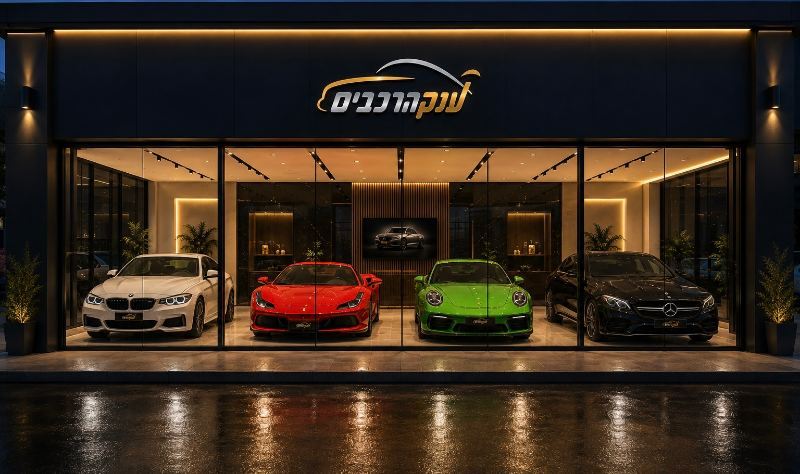
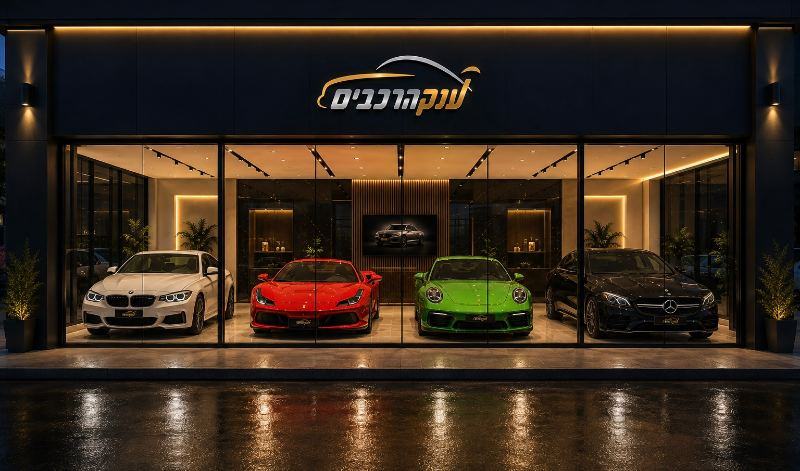
כותרת קצרה בטלפון, הסרת כפתור הוויז ותיקון פס בתצלום
הכותרת בטלפון
הלוגו ירד מהסרגל העליון וכפתור התפריט תפס את מקומו. הלוגו
חוזר ממילא בשלט שבתצלום ובתחתית העמוד, ובמסך צר הוא רק דחק
את הכפתור אל מחוץ למסך. הסמלים חזרו לגודלם המלא.
במחשב הכותרת לא השתנתה.

כפתור הוויז
הוסר. במחשב שורת הכתובת שבכותרת ממילא מקושרת לוויז.

הפס הכחול
בקצה העליון של התצלום היו ארבע שורות פיקסלים של שמיים
בהירים, ובמסך צר הן נראו כפס כחול דק מעל התמונה. הגרסאות
נוצרו מחדש עם קיצוץ של שש שורות מהקצה.

נבדק: שנים עשר עמודים בשני הגדלים — בטלפון כפתור תפריט
בלי לוגו, במחשב לוגו בלי כפתור, ואין זכר לכפתור הוויז.

Claude-Session: https://claude.ai/code/session_016iuMWu4YbWdXw89cY1KnoH

diff --git a/web/app/social-links.tsx b/web/app/social-links.tsx
@@ -1,19 +1,10 @@
-import { BUSINESS, SOCIAL } from "./site-config";
+import { SOCIAL } from "./site-config";
 
 /**
- * הקישורים העגולים בראש האתר: פייסבוק, אינסטגרם, טיקטוק וניווט.
+ * הקישורים העגולים בראש האתר: פייסבוק, אינסטגרם וטיקטוק.
  * הסמלים מוטמעים כ-SVG ולא כתמונות, כדי שיישארו חדים בכל גודל
  * ולא יוסיפו בקשות רשת. הכתובות יושבות ב-site-config.
  */
-
-const WAZE = `https://waze.com/ul?ll=${BUSINESS.latitude},${BUSINESS.longitude}&navigate=yes`;
-
-/**
- * סיכת מיקום — הסמל המקובל ל"איפה אנחנו".
- * זה לא הלוגו של Waze, אלא סמל מיקום רגיל שמוביל לניווט בוויז.
- * בחרנו בו ולא בחץ ניווט, כי חץ בגודל כזה נקרא בטעות כ"שליחה".
- */
-const PIN_PATH = "M12 2C8.13 2 5 5.13 5 9c0 5.25 7 13 7 13s7-7.75 7-13c0-3.87-3.13-7-7-7zm0 9.5a2.5 2.5 0 0 1 0-5 2.5 2.5 0 0 1 0 5z";
 
 const ICONS = {
   facebook: "M9.101 23.691v-7.98H6.627v-3.667h2.474v-1.58c0-4.085 1.848-5.978 5.858-5.978.401 0 .955.042 1.468.103a8.68 8.68 0 0 1 1.141.195v3.325a8.623 8.623 0 0 0-.653-.036 26.805 26.805 0 0 0-.733-.009c-.707 0-1.259.096-1.675.309a1.686 1.686 0 0 0-.679.622c-.258.42-.374.995-.374 1.752v1.297h3.919l-.386 2.103-.287 1.564h-3.246v8.245C19.396 23.238 24 18.179 24 12.044c0-6.627-5.373-12-12-12s-12 5.373-12 12c0 5.628 3.874 10.35 9.101 11.647Z",
@@ -36,17 +27,6 @@ export default function SocialLinks() {
         </a>
       ))}
 
-      <a
-        className="headerWaze"
-        href={WAZE}
-        target="_blank"
-        rel="noreferrer"
-        aria-label={`ניווט בוויז ל${BUSINESS.street}, ${BUSINESS.city}`}
-      >
-        <svg viewBox="0 0 24 24" width="19" height="19" aria-hidden="true" focusable="false">
-          <path d={PIN_PATH} fill="currentColor" />
-        </svg>
-      </a>
     </div>
   );
 }

diff --git a/web/app/theme-light.css b/web/app/theme-light.css
@@ -1128,11 +1128,6 @@ section.hero.heroFinder > picture > img {
 .headerSocial a:hover { border-color: var(--gold); color: #101014; background: var(--gold); }
 .headerSocial a:focus-visible { outline: 2px solid var(--gold); outline-offset: 2px; }
 
-/* הניווט אחרון בשורה, בצבע של וויז — פעולה ולא רשת חברתית.
-   מוצג בטלפון בלבד: במחשב שורת הכתובת שבכותרת כבר מקושרת לוויז. */
-.headerSocial .headerWaze { display: none; border-color: #33ccff; color: #33ccff; }
-@media (max-width: 900px) { .headerSocial .headerWaze { display: grid; } }
-.headerSocial .headerWaze:hover { background: #33ccff; border-color: #33ccff; color: #04303d; }
 
 @media (max-width: 900px) {
   .topbar .logo img { width: 118px !important; }
@@ -1233,10 +1228,12 @@ section.hero.heroFinder > picture > img {
 /* בטלפון הכותרת צפופה: לוגו, ארבעה סמלים וכפתור תפריט.
    הסמלים מוקטנים מעט כדי שכפתור התפריט ייכנס במלואו. */
 @media (max-width: 900px) {
-  .headerInner { gap: 4px !important; }
-  .topbar .logo { padding-inline: 8px !important; }
-  .headerSocial { gap: 5px; }
-  .headerSocial a { width: 34px; height: 34px; }
-  .headerSocial svg { width: 16px; height: 16px; }
-  .menuButton { flex: none; min-width: 44px; margin-inline-end: 2px; }
+  /* בטלפון הכותרת קצרה: כפתור התפריט במקום שבו היה הלוגו,
+     ואחריו הרשתות. הלוגו יורד — הוא חוזר ממילא בתצלום שמתחת
+     ובתחתית העמוד, ובמסך צר הוא רק דחק את הכפתור החוצה. */
+  .topbar .logo { display: none !important; }
+  .headerInner { gap: 10px !important; justify-content: flex-start !important; }
+  .menuButton { order: -1; flex: none; min-width: 44px; }
+  .headerSocial { gap: 8px; margin-inline-start: auto !important; }
+  .headerSocial a { width: 38px; height: 38px; }
 }
